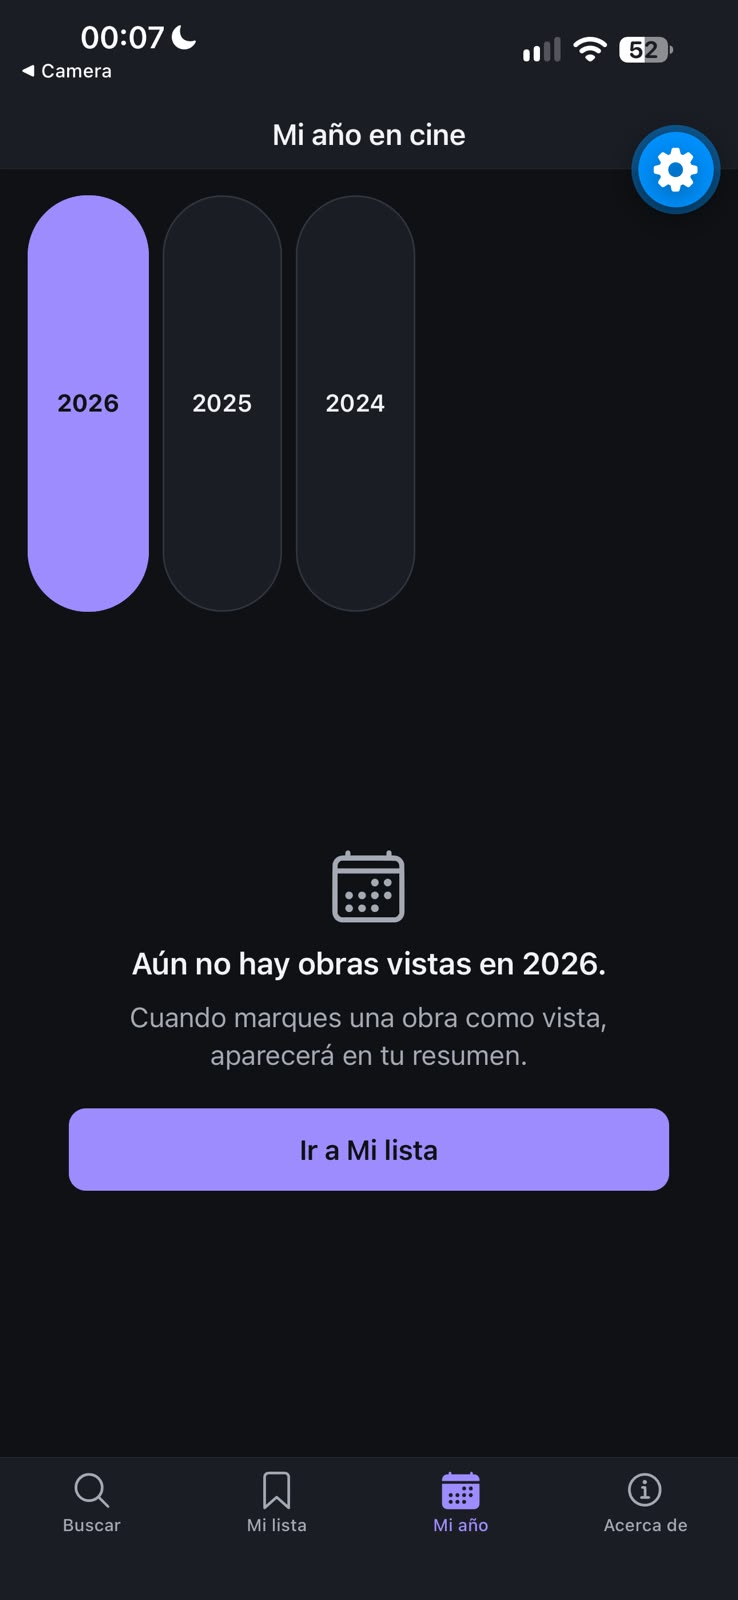
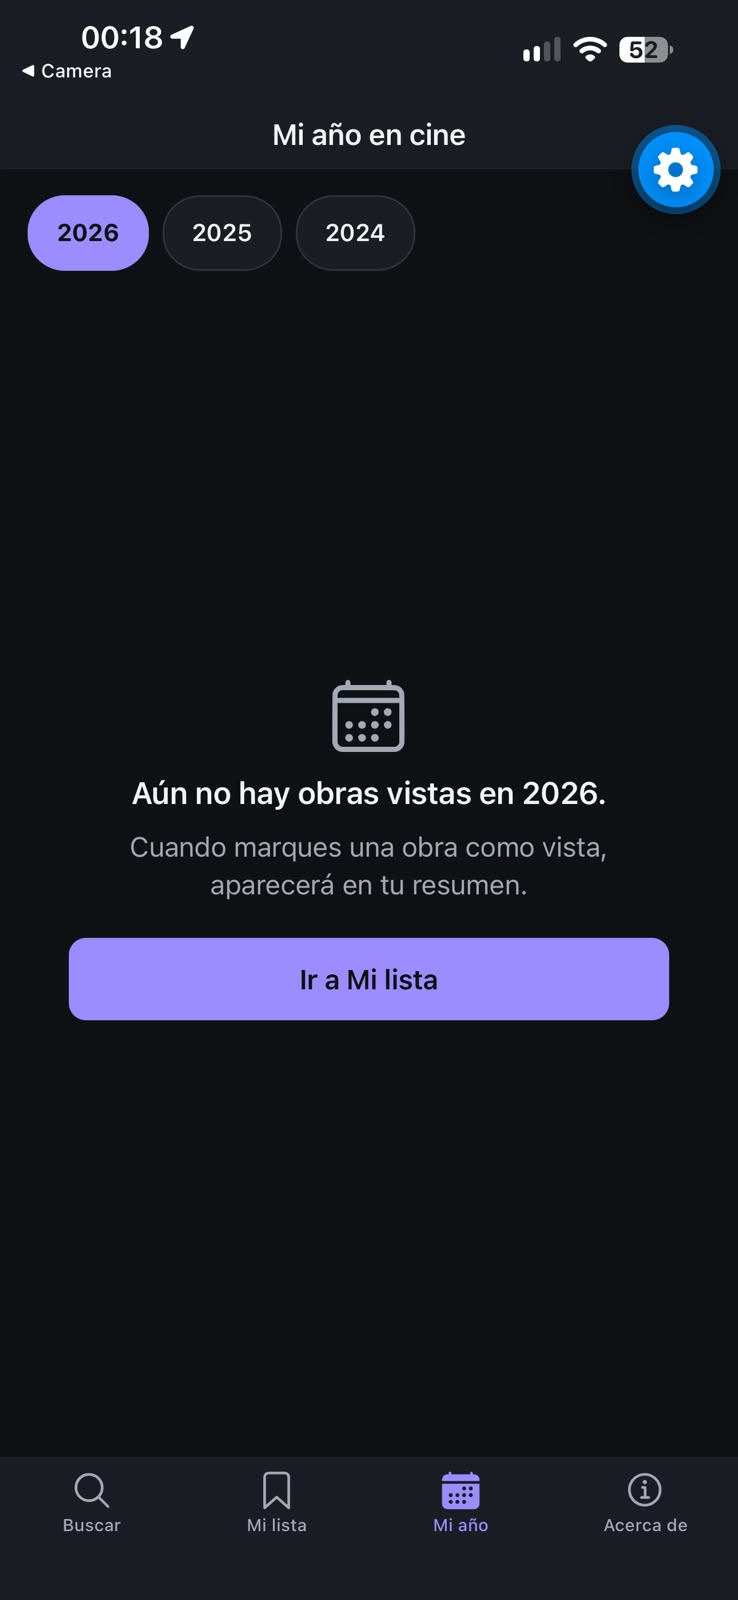
docs: verificación de HU-A.4 y captura corregida del año vacío
El estudiante sembró obras anteriores a la épica con
scripts/sembrarDatosPrueba.mjs y verificó en el teléfono CA-A.4.1 a
CA-A.4.10: migración de vistaEn (D2), completado desde TMDB con progreso
(D6), reintentos y cambio de año. CA-A.5.2 queda "No probado", porque un
error del servidor no se puede provocar a mano.

resumen-vacio.jpeg se reemplaza por una captura posterior a ddd833e, con
los chips del selector en su alto normal. La auditoría final marca F-01
y F-04 como resueltos.

diff --git a/docs/VERIFICACION.md b/docs/VERIFICACION.md
@@ -79,12 +79,12 @@ Antes de empezar: cierra Expo Go y vuelve a abrir la app, para que cargue la ver
 
 | Criterio | Pasos | Resultado esperado | Resultado obtenido |
 |---|---|---|---|
-| CA-A.4.1 | Con una obra *Vista* antigua (sin `vistaEn`), abrir la pestaña **Mi año** con conexión | En la consola, la obra recibe `vistaEn` = su `actualizadoEn` anterior, y cuenta en ese año | ❌ |
-| CA-A.4.4 | Revisar ese documento | Estado, calificación, comentario y datos de TMDB siguen iguales | ❌ |
-| CA-A.4.5 | Con obras vistas del año sin `generos` (anteriores a la épica), abrir **Mi año** | Se ve "Completando datos · n de m obras"; al terminar, las obras tienen `generos` en la consola | ❌ |
-| CA-A.4.7 | Si alguna obra no se pudo completar | Aviso "1 obra quedó sin datos de TMDB: …" | ❌ |
-| CA-A.4.8 | Activar el modo avión durante el completado, salir, desactivarlo y reiniciar la app | Las obras que fallaron se vuelven a intentar | ❌ |
-| CA-A.4.10 | Cambiar de año mientras se completan datos | Se detiene el del año anterior y sigue con el nuevo | ❌ |
+| CA-A.4.1 | Con una obra *Vista* antigua (sin `vistaEn`), abrir la pestaña **Mi año** con conexión | En la consola, la obra recibe `vistaEn` = su `actualizadoEn` anterior, y cuenta en ese año | ✅ |
+| CA-A.4.4 | Revisar ese documento | Estado, calificación, comentario y datos de TMDB siguen iguales | ✅ |
+| CA-A.4.5 | Con obras vistas del año sin `generos` (anteriores a la épica), abrir **Mi año** | Se ve "Completando datos · n de m obras"; al terminar, las obras tienen `generos` en la consola | ✅ |
+| CA-A.4.7 | Si alguna obra no se pudo completar | Aviso "1 obra quedó sin datos de TMDB: …" | ✅ |
+| CA-A.4.8 | Activar el modo avión durante el completado, salir, desactivarlo y reiniciar la app | Las obras que fallaron se vuelven a intentar | ✅ |
+| CA-A.4.10 | Cambiar de año mientras se completan datos | Se detiene el del año anterior y sigue con el nuevo | ✅ |
 
 ### HU-A.2 · Resumen del año
 
@@ -114,7 +114,7 @@ Antes de empezar: cierra Expo Go y vuelve a abrir la app, para que cargue la ver
 | CA-A.5.1 | Abrir **Mi año** justo después de iniciar la app | "Preparando tu año…" con indicador | ✅ |
 | CA-A.5.3 | Modo avión → reiniciar la app → abrir **Mi año** | El resumen sale de la copia local, con el aviso sin conexión; nada cambia en la consola | ✅ |
 | CA-A.5.4 | Igual que la anterior, con alguna obra vista sin fecha | El aviso dice cuántas obras vistas aún no tienen fecha | ✅ |
-| CA-A.5.2 | (Difícil de provocar) Un error del servidor al migrar | Mensaje "No pudimos preparar tu resumen." con *Reintentar* | ❌ |
+| CA-A.5.2 | (Difícil de provocar) Un error del servidor al migrar | Mensaje "No pudimos preparar tu resumen." con *Reintentar* | No probado |
 
 ### Proyecto 3 con el diseño nuevo
 
@@ -131,5 +131,4 @@ Antes de empezar: cierra Expo Go y vuelve a abrir la app, para que cargue la ver
 
 | Criterio | Qué pasó | Decisión (corregido / anotado en la auditoría) |
 |---|---|---|
-| Obras anteriores a la épica | Me olvidé de dejar obras guardadas como vistas antes de la versión nueva | Continuar |
-| CA-A.3.7 (año vacío) | En el estado vacío, los chips del selector de año se estiran y ocupan media pantalla (`docs/resumen-vacio.jpeg`). El `ScrollView` horizontal de `SelectorAnio` crece por defecto (`flexGrow: 1`) y reparte el espacio libre con `MensajeVacio` | Corregido: `SelectorAnio` con `flexGrow: 0`. Hay que repetir la captura |
+| CA-A.3.7 (año vacío) | En el estado vacío, los chips del selector de año se estiran y ocupan media pantalla (`docs/resumen-vacio.jpeg`). El `ScrollView` horizontal de `SelectorAnio` crece por defecto (`flexGrow: 1`) y reparte el espacio libre con `MensajeVacio` | Corregido: `SelectorAnio` con `flexGrow: 0` (`ddd833e`). Captura repetida ✅ |

diff --git a/docs/AUDITORIA.md b/docs/AUDITORIA.md
@@ -132,10 +132,10 @@ spec 01, la spec 02 y `docs/VERIFICACION.md`.
 
 | Id | Hallazgo | Evidencia | Gravedad | Decisión |
 |---|---|---|---|---|
-| F-01 | En el año vacío, los chips del selector se estiraban hasta media pantalla | `docs/resumen-vacio.jpeg`; `SelectorAnio.tsx` (el `ScrollView` crece por defecto) | Media | Corregido en `ddd833e` (`flexGrow: 0`). Hay que repetir la captura |
+| F-01 | En el año vacío, los chips del selector se estiraban hasta media pantalla | `docs/resumen-vacio.jpeg`; `SelectorAnio.tsx` (el `ScrollView` crece por defecto) | Media | Corregido en `ddd833e` (`flexGrow: 0`) y verificado con la captura nueva |
 | F-02 | Las obras que fallan al completarse (D6) solo se reintentan al reiniciar la app: las pestañas no se desmontan, y el hook las marca como intentadas por montaje | `useResumenAnual.ts` (`intentadas`) | Baja | Riesgo conocido. PA-3 se cumple al reabrir la app |
 | F-03 | Tras D1, la copia local usa la hora del teléfono hasta la próxima sincronización | `CarteleraContext.actualizar` | Baja | Riesgo conocido (spec 01 §11) |
-| F-04 | HU-A.4 (migración D2 y reintentos) no se verificó a mano con una obra anterior a la épica. Hay evidencia indirecta de D6: el resumen de 2025 suma 14,9 h, que incluyen los 139 min de *El club de la lucha*, sembrada sin datos | `docs/VERIFICACION.md` §3 (HU-A.4), `docs/resumen-con-datos.jpeg` | Media | Repetir con `scripts/sembrarDatosPrueba.mjs` (grupo "anterior a la épica"). La lógica de D2 tiene tests (`obrasSinFecha`) |
+| F-04 | HU-A.4 (migración D2 y reintentos) no se había verificado a mano, porque no había obras anteriores a la épica | `docs/VERIFICACION.md` §3 (HU-A.4) | Media | Resuelto: con `scripts/sembrarDatosPrueba.mjs` se verificaron CA-A.4.1 a CA-A.4.10 en el teléfono (✅). CA-A.5.2 queda "No probado", porque un error del servidor no se puede provocar a mano |
 | F-05 | Con D4, el único año que puede estar vacío en el selector es el actual; para mostrar D12 hace falta una cuenta sin obras vistas este año | PRD §7.3 (D4, D12) | Baja | Anotado en VERIFICACION §0; la demo usa cuenta2 |
 | F-06 | `npm` reporta 13 vulnerabilidades (8 moderadas y 5 altas) en dependencias transitivas | Salida de `npm install` | Baja | Riesgo conocido: `npm audit fix` puede romper las versiones del SDK 58 |
 | F-07 | El Proyecto 3 no tenía obras guardadas antes de la épica en las cuentas de prueba, así que D2 y D6 no se podían probar sin preparar datos | VERIFICACION §4 | Baja | Se agregó `scripts/sembrarDatosPrueba.mjs` (`286e018`) |
